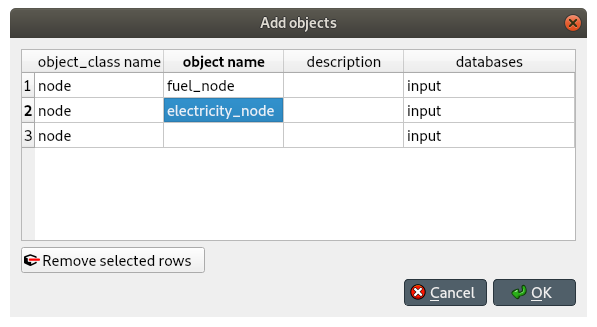
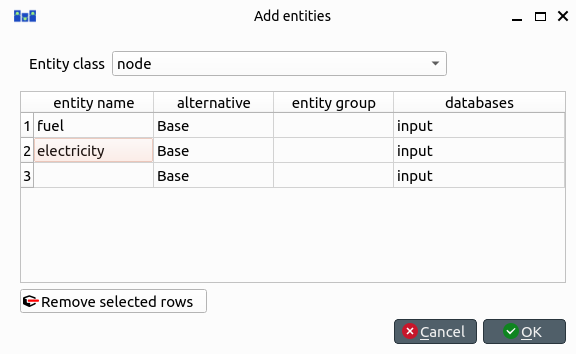
update

diff --git a/docs/src/tutorial/simple_system.md b/docs/src/tutorial/simple_system.md
@@ -7,9 +7,15 @@ system with Spine Toolbox for SpineOpt.
 Spine Toolbox is used to create a workflow with databases and tools and 
 SpineOpt is the tool that simulates/optimizes the energy system.
 
-## Introduction
+!!! info
+    If you haven't yet installed the tools or you are not sure whether you have the latest version,
+    please follow the installation/upgrade guides: 
+    - For Spine Toolbox: [Spine Toolbox installation guide](https://github.com/spine-tools/Spine-Toolbox#installation)
+    - For SpineOpt: [SpineOpt installation guide](@ref installation)
 
-### Model assumptions
+## About the simple system
+
+In the simple system:
 
 -   Two power plants take fuel from a source node and release
     electricity to another node in order to supply a demand.
@@ -24,16 +30,7 @@ SpineOpt is the tool that simulates/optimizes the energy system.
 
 ![image](figs_simple_system/simple_system_schematic.png)
 
-### Installation and upgrades
-
-If you haven't yet installed the tools or you are not sure whether you have the latest version,
-please follow the installation/upgrade guides: 
-- For Spine Toolbox: [Spine Toolbox installation guide](https://github.com/spine-tools/Spine-Toolbox#installation)
-- For SpineOpt: [SpineOpt installation guide](https://github.com/spine-tools/SpineOpt.jl#installation)
-
-## Guide
-
-### Spine Toolbox workflow
+## Spine Toolbox workflow
 
 The workflow for this tutorial is quite simple: A SpineOpt tool that 
 reads data from an input database, executes the simulation/optimization 
@@ -78,149 +75,186 @@ The result should look similar to this (+/- the Load template block):
 That is it for the workflow. Now we can enter the data for the setup of the simple system 
 into the input database, run the workflow and view the results in the output database.
 
-### Entering input data
+## Entering input data
 
-#### Importing the SpineOpt database template
+To enter the necessary data for the simple system, we'll use the *Spine DB editor*.
+The *Spine DB editor* is a dedicated interface within Spine Toolbox
+for visualizing and managing Spine databases. The default view shows 
+tables (see below) but for viewing energy system configurations
+it is nice to see a graph. Press the graph button in the toolbar.
+The graph view only shows what you select in the root menu 
+and what your selected entities are connected to.
 
--   Download [the SpineOpt database
-    template](https://raw.githubusercontent.com/spine-tools/SpineOpt.jl/master/templates/spineopt_template.json)
-    and [the basic SpineOpt
-    model](https://raw.githubusercontent.com/spine-tools/SpineOpt.jl/master/templates/models/basic_model_template.json)
-    (right click on the links, then select *Save link as...*)
-
+To open the editor:
 -   Double click the input Data Store item 
     (or select the 'input' Data Store item in the *Design View*, 
-    go to *Data Store Properties* and hit **Open editor**). 
-    This will open the newly created database in the *Spine DB editor*,
-     looking similar to this:
+    go to *Data Store Properties* and hit **Open editor**).
+
 ![image](figs_simple_system/simple_system_toolbox_empty.png)
 
-!!! note
-    The *Spine DB editor* is a dedicated interface within Spine Toolbox
-    for visualizing and managing Spine databases. The default view shows 
-    tables but for viewing energy system configurations it is nice to see 
-    a graph. Open the hamburger menu (or press *Alt + F*) and press the 
-    graph button. The graph view only shows what you select in the root menu 
-    and what your selected objects or relationships are connected to.
+In the following we enter the input data for the simple system.
 
--   To import the templates to the database, click the hamburger menu (or press **Alt + F**), 
-    select **File -> Import...**, and then select the template file you previously
+### Importing the SpineOpt database template
+
+A SpineOpt database is a spine database but a spine database is not necessarily a SpineOpt database. Therefore we first need to format the database to a SpineOpt database with the SpineOpt template. The SpineOpt template contains the fundamental entity classes and parameter definitions that SpineOpt recognizes and expects. One option to load the template is to use the 'Load template' tool as mentioned before. Another option is to import the template with the Spine DB editor. To that end:
+
+-   Download [the SpineOpt database
+    template](https://raw.githubusercontent.com/spine-tools/SpineOpt.jl/master/templates/spineopt_template.json) (right click on the link, then select *Save link as...*)
+
+-   To import the template to the database,
+    click on **File -> Import...**, and then select the template file you previously
     downloaded (*spineopt\_template.json*). The contents of that file will be 
     imported into the current database, and you should then see classes like 
-    'commodity', 'connection' and 'model' under the root node in the *Object tree*
-     (on the left). Then import the second file (*basic\_model\_template.json*).
+    'commodity', 'connection' and 'model' under the root menu.
 
--   To save our changes, go again to the hamburger menu and select **Session -> Commit**.
+-   To save our changes, press the **Commit** button in the toolbar.
     Enter a commit message, e.g. 'Import SpineOpt template', in the popup dialog
     and click **Commit**.
 
-!!! note
-    The SpineOpt template contains the fundamental entity classes
-    and parameter definitions that SpineOpt recognizes and expects.
-    The SpineOpt basic model template contains some predefined entities 
-    for a common deterministic model with a 'flat' temporal structure.
+![image](figs_simple_system/simple_system_spineopt_template.png)
 
-#### Creating objects
+### Model settings
 
--   Always in the Spine DB editor, locate the *Object tree* (typically
-    at the top-left). Expand the [root] element if not
-    expanded.
+A typical SpineOpt database has two parts: the model settings and the physical system.
 
--   Right click on the [node] class, and select *Add objects* 
-    from the context menu. The *Add objects* dialog will pop up.
+The model settings that we need for this tutorial are also available as a template that we can import. The SpineOpt basic model template contains some predefined entities for a common deterministic model with a 'flat' temporal structure.
 
--   Enter the names for the system nodes as seen in the image below,
-    then press *Ok*. This will create two objects of class
-    *node*, called *fuel\_node* and *electricity\_node*.
-![image](figs_simple_system/simple_system_add_nodes.png)
+-   Download [the basic SpineOpt
+    model](https://raw.githubusercontent.com/spine-tools/SpineOpt.jl/master/templates/models/basic_model_template.json)
+    (right click on the link, then select *Save link as...*)
 
--   Right click on the *unit* class, and select *Add
-    objects* from the context menu. The *Add objects* dialog will pop
-    up.
+-   Import the template to the database through **File -> Import...**,
+    and then select the template file you previously downloaded (*basic\_model\_template.json*).
 
-!!! note
-    In SpineOpt, nodes are points where an energy balance takes place,
-    whereas units are energy conversion devices that can take energy from
-    nodes, and release energy to nodes.
+-   Commit (save) the changes through the **Commit** button in the toolbar.
 
--   Enter the names for the system units as seen in the image below,
-    then press *Ok*. This will create two objects of class
-    *unit*, called *power\_plant\_a* and
-    *power\_plant\_b*.
-![image](figs_simple_system/simple_system_add_units.png)
+One of the predefined entities is the report.
+The report determines which variables of the SpineOpt model show up in the results later on.
+Currently, there is no output connected to the report. We'll have to do that manually:
 
-!!! note
-    To modify an object after you enter it, right click on it and select
-    **Edit...** from the context menu.
+-   Locate the *Entity tree* in the Spine DB editor (typically
+    at the top-left).
 
-#### Establishing relationships
+-   Press the '+' next to the *report\_\_output* class.
+    The *Add entities* dialog will pop up.
 
--   Always in the Spine DB editor, locate the *Relationship tree*
-    (typically at the bottom-left). Expand the *root*
-    element if not expanded.
+-   We'll have to fill in the field for the report and the output.
+    Double click the field to see the options.
+    For the 'report' field we need 'report1'
+    and for the 'output' field we only need 'unit\_flow'.
 
--   Right click on the *unit\_\_from\_node* class, and select
-    *Add relationships* from the context menu. The *Add relationships*
-    dialog will pop up.
+-   Press *Ok*.
 
-!!! note
-    Alternatively right click the objects in the graph view and 
-    *add relationships* will show the available relationships.
-    Note that this only works when the involved units/nodes/... are visible
-    in the graph view. To make an object visible, simply click on the object
-    in the list of objects/object classes. You can select multiple objects with
-    ctrl or shift.
-
--   Select the names of the two units and their **sending** nodes, as
-    seen in the image below; then press *Ok*. This will establish that
-    both *power\_plant\_a* and *power\_plant\_b*
-    take energy from the *fuel\_node*.
-![image](figs_simple_system/simple_system_add_unit__from_node_relationships.png)
-
--   Right click on the *unit\_\_to_node* class, and select
-    *Add relationships* from the context menu. The *Add relationships*
-    dialog will pop up.
-
--   Select the names of the two units and their **receiving** nodes, as
-    seen in the image below; then press *Ok*. This will establish that
-    both *power\_plant\_a* and *power\_plant\_b*
-    release energy into the *electricity\_node*.
-![image](figs_simple_system/simple_system_add_unit__to_node_relationships.png)
-
--   Right click on the *unit\_\_node\_\_node* class, and select
-    *Add relationships* from the context menu. The *Add relationships*
-    dialog will pop up.
-
--   For each of the units enter the unit under *unit*,
-    *electricity_node* under the first node and *fuel_node* under the 
-    second node. These relationships will define the relation (or behavior)
-     between the output and input of the unit.
-![image](figs_simple_system/simple_system_add_unit__node__node.png)
-
-!!! note
-    The *unit\_\_node\_\_node* relationship is necessary to limit the flow 
-    (flows are unbound by default) and to define an efficiency.
-    The order of the nodes is important for that definition (see later on).
-    It may seem unintuitive to define an efficiency through a three-way 
-    relationship instead of a property of a unit, but this approach allows you
-    to define efficiencies between any flow(s) coming in and out of the unit (e.g. CHP). 
-
--   Right click on the *report\_\_output* class, and select
-    *Add relationships* from the context menu. The *Add relationships*
-    dialog will pop up.
+-   Commit (save) the changes through the **Commit** button in the toolbar.
 
 -   Enter *report1* under *report*, and
     *unit\_flow* under *output*, as seen in the image below;
     then press *Ok*. This will tell SpineOpt to write the value of the
     *unit\_flow* optimization variable to the output
     database, as part of *report1*.
+
 ![image](figs_simple_system/simple_system_add_report__output_relationships.png)
 
-!!! note
-    In SpineOpt, outputs represent optimization variables that can be
-    written to the output database as part of a report.
+The resulting model structure can then be seen in the picture below (by selecting the model, the stochastic structure and the report in the root menu).
 
-#### Specifying object parameter values
+![image](figs_simple_system/simple_system_basic_model.png)
+
+### Creating nodes and units
+
+As for the physical system, we start with creating nodes and units.
+As shown before, the simple system contains 2 nodes and 2 units.
+
+!!! info
+    In SpineOpt, nodes are points where an energy balance takes place,
+    whereas units are energy conversion devices that can take energy from
+    nodes, and release energy to nodes.
+
+To create the nodes:
+
+-   Locate the *Entity tree* in the Spine DB editor (typically
+    at the top-left).
+
+-   Right click on the [node] class, and select *Add objects* 
+    from the context menu (or press the '+' icon next to it).
+    The *Add entities* dialog will pop up.
+
+-   Enter the names for the system nodes as seen in the image below,
+    then press *Ok*. This will create two entities of class
+    *node*, called *fuel* and *electricity*.
+
+![image](figs_simple_system/simple_system_add_nodes.png)
+
+To create the units we do the same thing:
+
+-   Press '+' next to the *unit* class, and add two units called
+    *power\_plant\_a* and *power\_plant\_b*.
+
+![image](figs_simple_system/simple_system_add_units.png)
+
+!!! info
+    To modify an object after you enter it, right click on it and select
+    **Edit...** from the context menu.
+
+### Creating relationships between the nodes and units
+
+For the simple system we need to link the nodes and the units.
+Intuitively, we know that we need to make flows from the
+'fuel' node to the units and to the 'electricity' node.
+Additionally we'll have to add a 'unit\_\_node\_node' entity
+to be able to add data on properties to the relation between
+the input and the output of the units.
+
+For the flow from the 'fuel' node to the units:
+
+-   Press '+' next to the *unit\_\_from\_node* class,
+    you'll see a 'unit' field and a 'node' field.
+
+-   Double click the unit field to see the options.
+    Select each unit once.
+
+-   Double click the node field to see the options.
+    Select the 'fuel' node twice.
+
+!!! info
+    Alternatively right click the objects in the *graph view* and 
+    *add relationships* will show the available relationships.
+    Note that this only works when the involved units/nodes/... are visible
+    in the graph view. To make an object visible, simply click on the object
+    in the list of objects/object classes. You can select multiple objects with
+    ctrl or shift.
+
+![image](figs_simple_system/simple_system_add_unit__from_node_relationships.png)
+
+For the flow from the units to the 'electricity' node, we do the same:
+
+-   Press '+' next to the *unit\_\_to\_node* class and choose
+    each unit once and the 'electricity' node twice.
+
+![image](figs_simple_system/simple_system_add_unit__to_node_relationships.png)
+
+These flows so far only determine what happens between the node and the unit.
+However, we also need to determine what happens between the input and output of the unit.
+As there can be multiple inputs and outputs, we'll have to define which flows exactly
+contribute to the input/output behaviour. To that end we use a *unit\_\_node\_\_node* class.
+
+-   Press '+' next to the *unit\_\_node\_\_node* class and choose the unit, 
+    its output node and its input node.
+
+![image](figs_simple_system/simple_system_add_unit__node__node.png)
+
+!!! info
+    The *unit\_\_node\_\_node* relationship is necessary to limit the flow 
+    (flows are unbound by default) and to define an efficiency.
+    The order of the nodes is important for that definition (see later on).
+    It may seem unintuitive to define an efficiency through a three-way 
+    relationship instead of a property of a unit, but this approach allows you
+    to define efficiencies between any flow(s) coming in and out of the unit (e.g. CHP).
+
+The resulting system can be seen in the picture below (by selecting the node in the root menu).
+
+![image](figs_simple_system/simple_system_entities.png)
+
+### Specifying object parameter values
 
 -   Back to *Object tree*, expand the *node* class and
     select *electricity\_node*.
@@ -234,7 +268,7 @@ into the input database, run the workflow and view the results in the output dat
     at the electricity node.
 ![image](figs_simple_system/simple_system_electricity_demand.png)
 
-!!! note
+!!! info
     The alternative name is not optional. If you don't select *Base* 
     (or another name) you will not be able to save your data.
     Speaking of which, when is the last time you saved/committed?
@@ -248,7 +282,7 @@ into the input database, run the workflow and view the results in the output dat
     not balanced, and thus provide as much fuel as needed.
 ![image](figs_simple_system/simple_system_fuel_balance_type.png)
 
-#### Specifying relationship parameter values 
+### Specifying relationship parameter values 
 
 -   In *Relationship tree*, expand the *unit\_\_from\_node*
     class and select *power\_plant\_a | fuel\_node*.
@@ -306,14 +340,17 @@ into the input database, run the workflow and view the results in the output dat
     *0.8*, respectively. It should look like the image below.
 ![image](figs_simple_system/simple_system_fix_ratio_out_in_unit_flow.png)
 
-!!! note
+!!! info
     The order of the nodes is important for the *fix\_ratio\_out\_in\_unit\_flow* 
     parameter. If you have swapped the nodes or inverted the efficiency values, 
     the Run SpineOpt tool will run into errors.
 
+### reporting outputs
+
+
 When you're ready, save/commit all changes to the database.
 
-### Executing the workflow
+## Executing the workflow
 
 -   Go back to Spine Toolbox's main window, and hit the **Execute
     project** button ![image](figs_simple_system/play-circle.png) from the tool bar. 
@@ -323,7 +360,7 @@ When you're ready, save/commit all changes to the database.
 -   Select the 'Run SpineOpt' Tool. You should see the output from
     SpineOpt in the *Julia Console* after clicking the *object activity control*.
 
-### Examining the results
+## Examining the results
 
 -   Select the output data store and open the Spine DB editor.
     You can already inspect the fields in the displayed tables 
